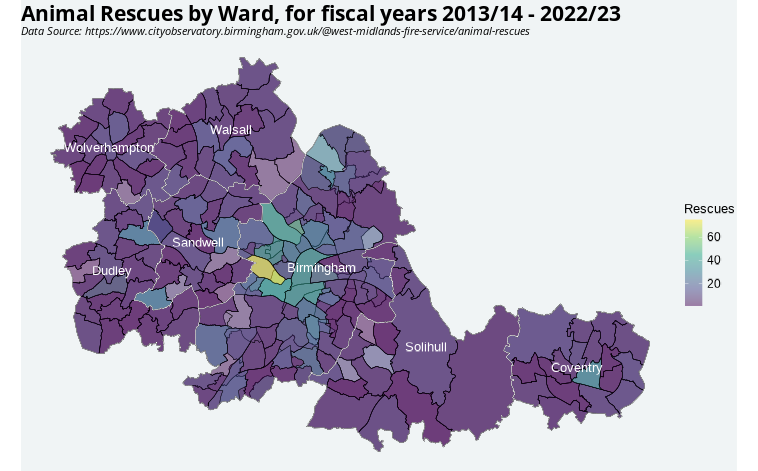
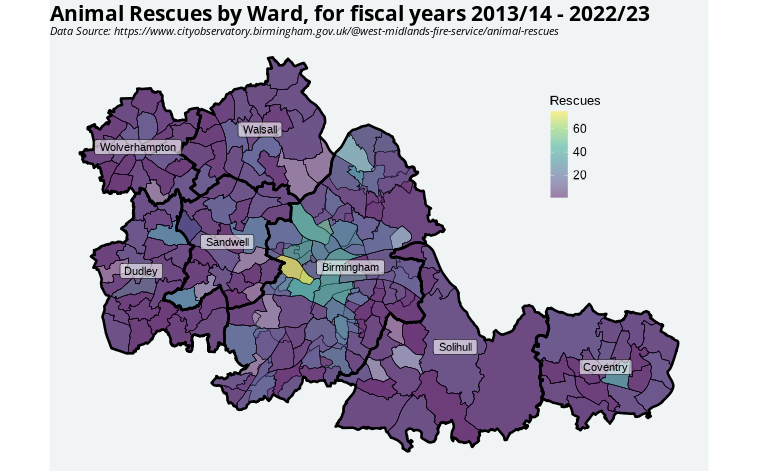
restyled maps and recropped to new dimensions for consistency

diff --git a/presentation.html b/presentation.html
@@ -4,7 +4,7 @@
     <title>Analytical test</title>
     <meta charset="utf-8" />
     <meta name="author" content="Chris Mainey" />
-    <meta name="date" content="2023-07-07" />
+    <meta name="date" content="2023-07-08" />
     <script src="presentation_files/header-attrs/header-attrs.js"></script>
     <link rel="stylesheet" href="theme.css" type="text/css" />
   </head>
